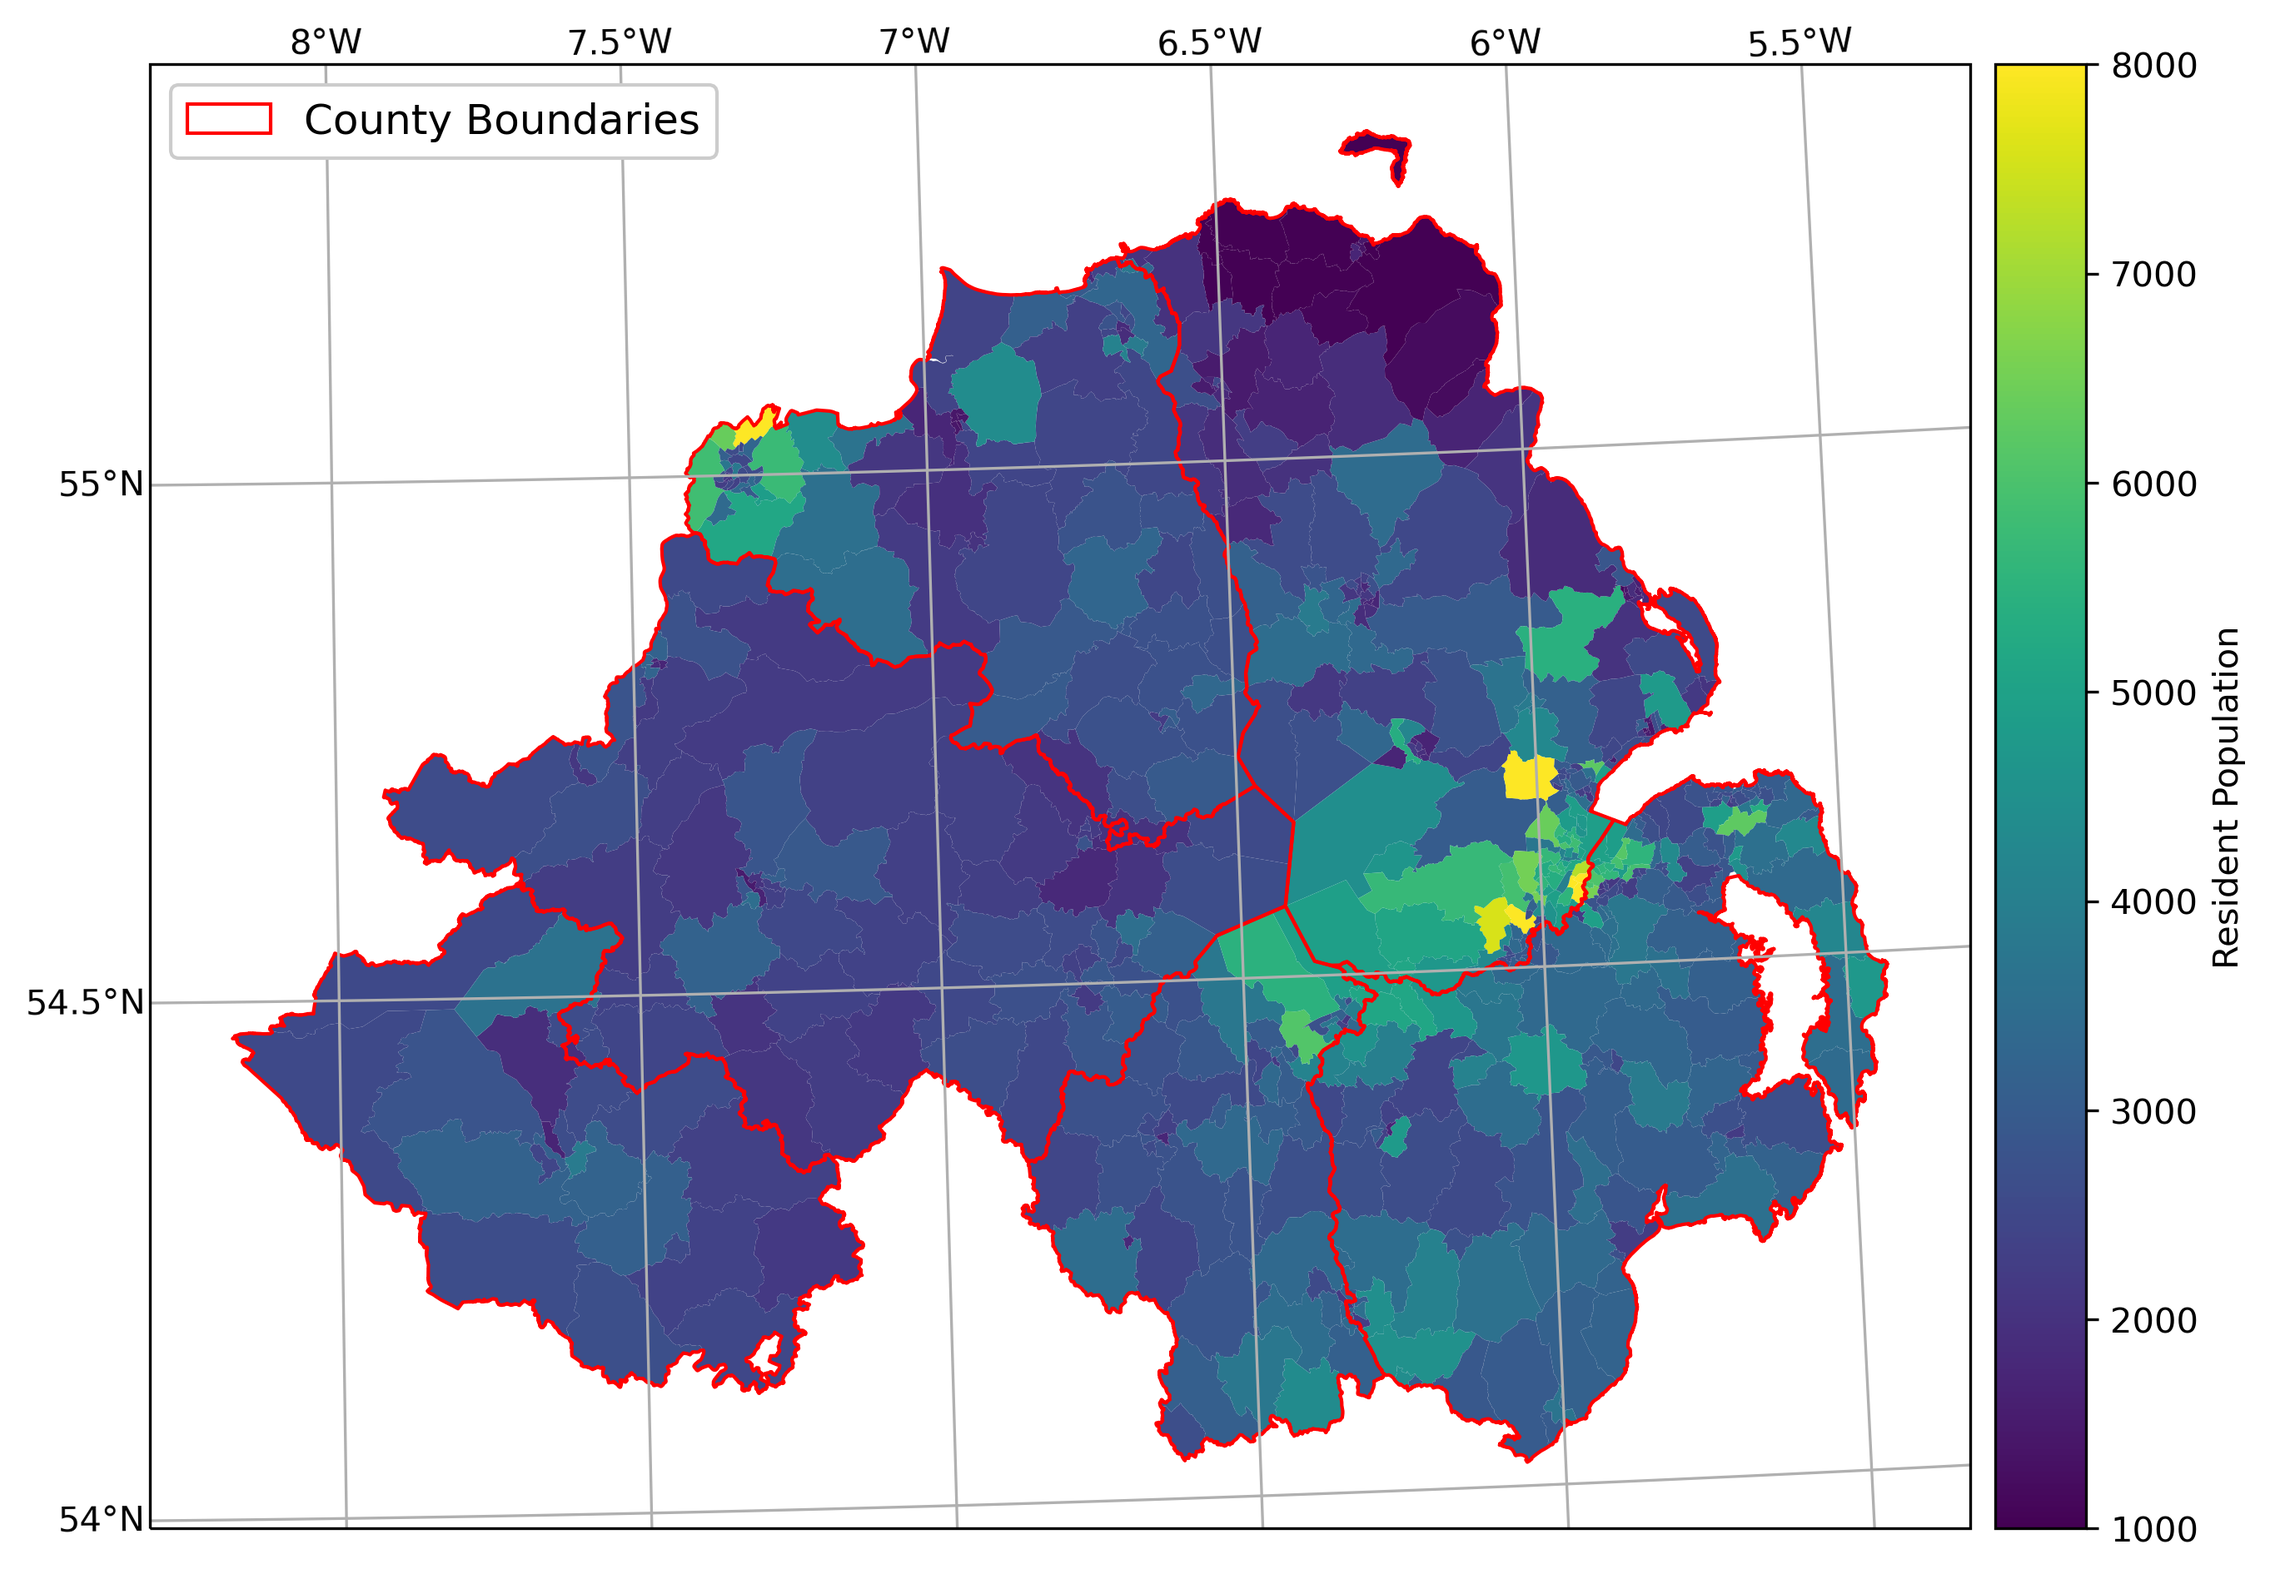
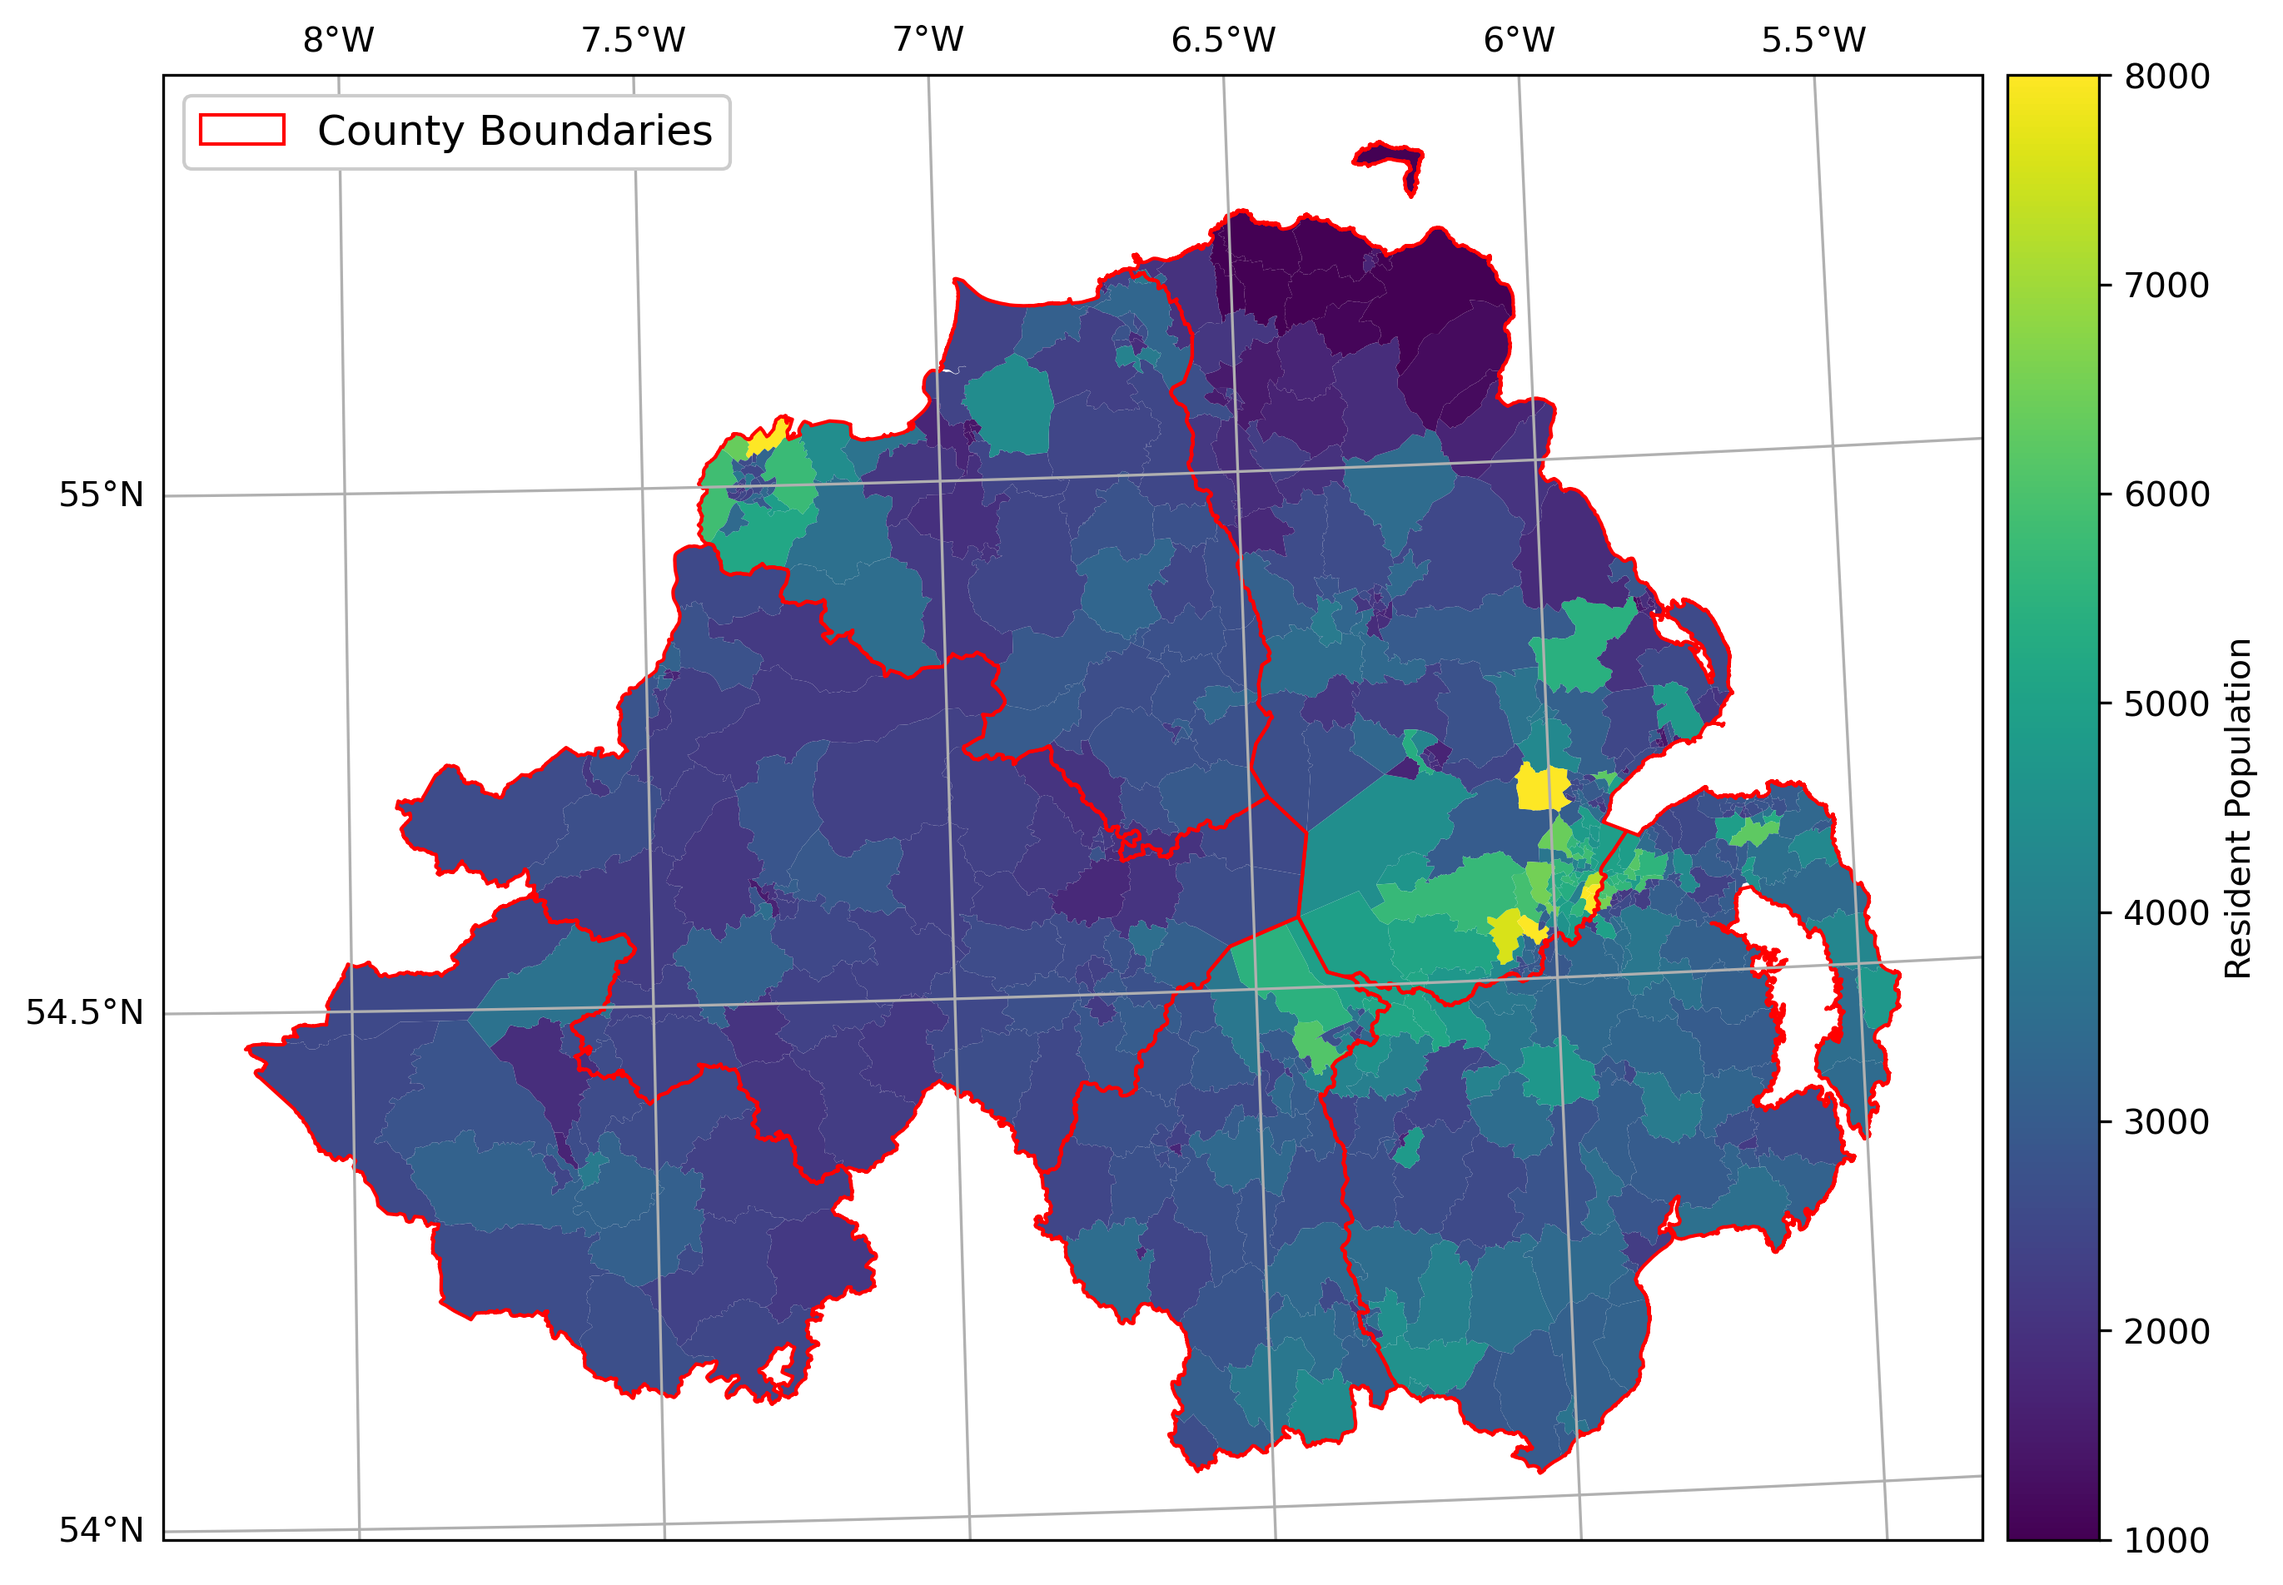
updated to density map

diff --git a/Week3/exercise_script.py b/Week3/exercise_script.py
@@ -29,6 +29,9 @@ plt.ion()
 counties = gpd.read_file(os.path.abspath('data_files/Counties.shp')).to_crs(epsg=32629)
 wards = gpd.read_file(os.path.abspath('data_files/NI_Wards.shp')).to_crs(epsg=32629)
 
+# calculate the population density
+wards['Pop_Density'] = wards['Population']/(wards.geometry.area / 1000000)
+
 # do a spatial join of wards and counties
 join = gpd.sjoin(wards, counties, how='inner', lsuffix='left', rsuffix='right')
 
@@ -69,8 +72,8 @@ divider = make_axes_locatable(ax)
 cax = divider.append_axes("right", size="5%", pad=0.1, axes_class=plt.Axes)
 
 # plot the ward data into our axis, using gdf.plot()
-ward_plot = wards.plot(column='Population', ax=ax, vmin=1000, vmax=8000, cmap='viridis',
-                       legend=True, cax=cax, legend_kwds={'label': 'Resident Population'})
+ward_plot = wards.plot(column='Pop_Density', ax=ax, vmin=0, vmax=10000, cmap='viridis',
+                       legend=True, cax=cax, legend_kwds={'label': 'People per SqKM'})
 
 # add county outlines in red using ShapelyFeature
 county_outlines = ShapelyFeature(counties['geometry'], ni_utm, edgecolor='r', facecolor='none')
@@ -82,4 +85,4 @@ county_handles = generate_handles([''], ['none'], edge='r')
 ax.legend(county_handles, ['County Boundaries'], fontsize=12, loc='upper left', framealpha=1)
 
 # save the figure
-fig.savefig('sample_map.png', dpi=300, bbox_inches='tight')
+fig.savefig('density_map.png', dpi=300, bbox_inches='tight')
